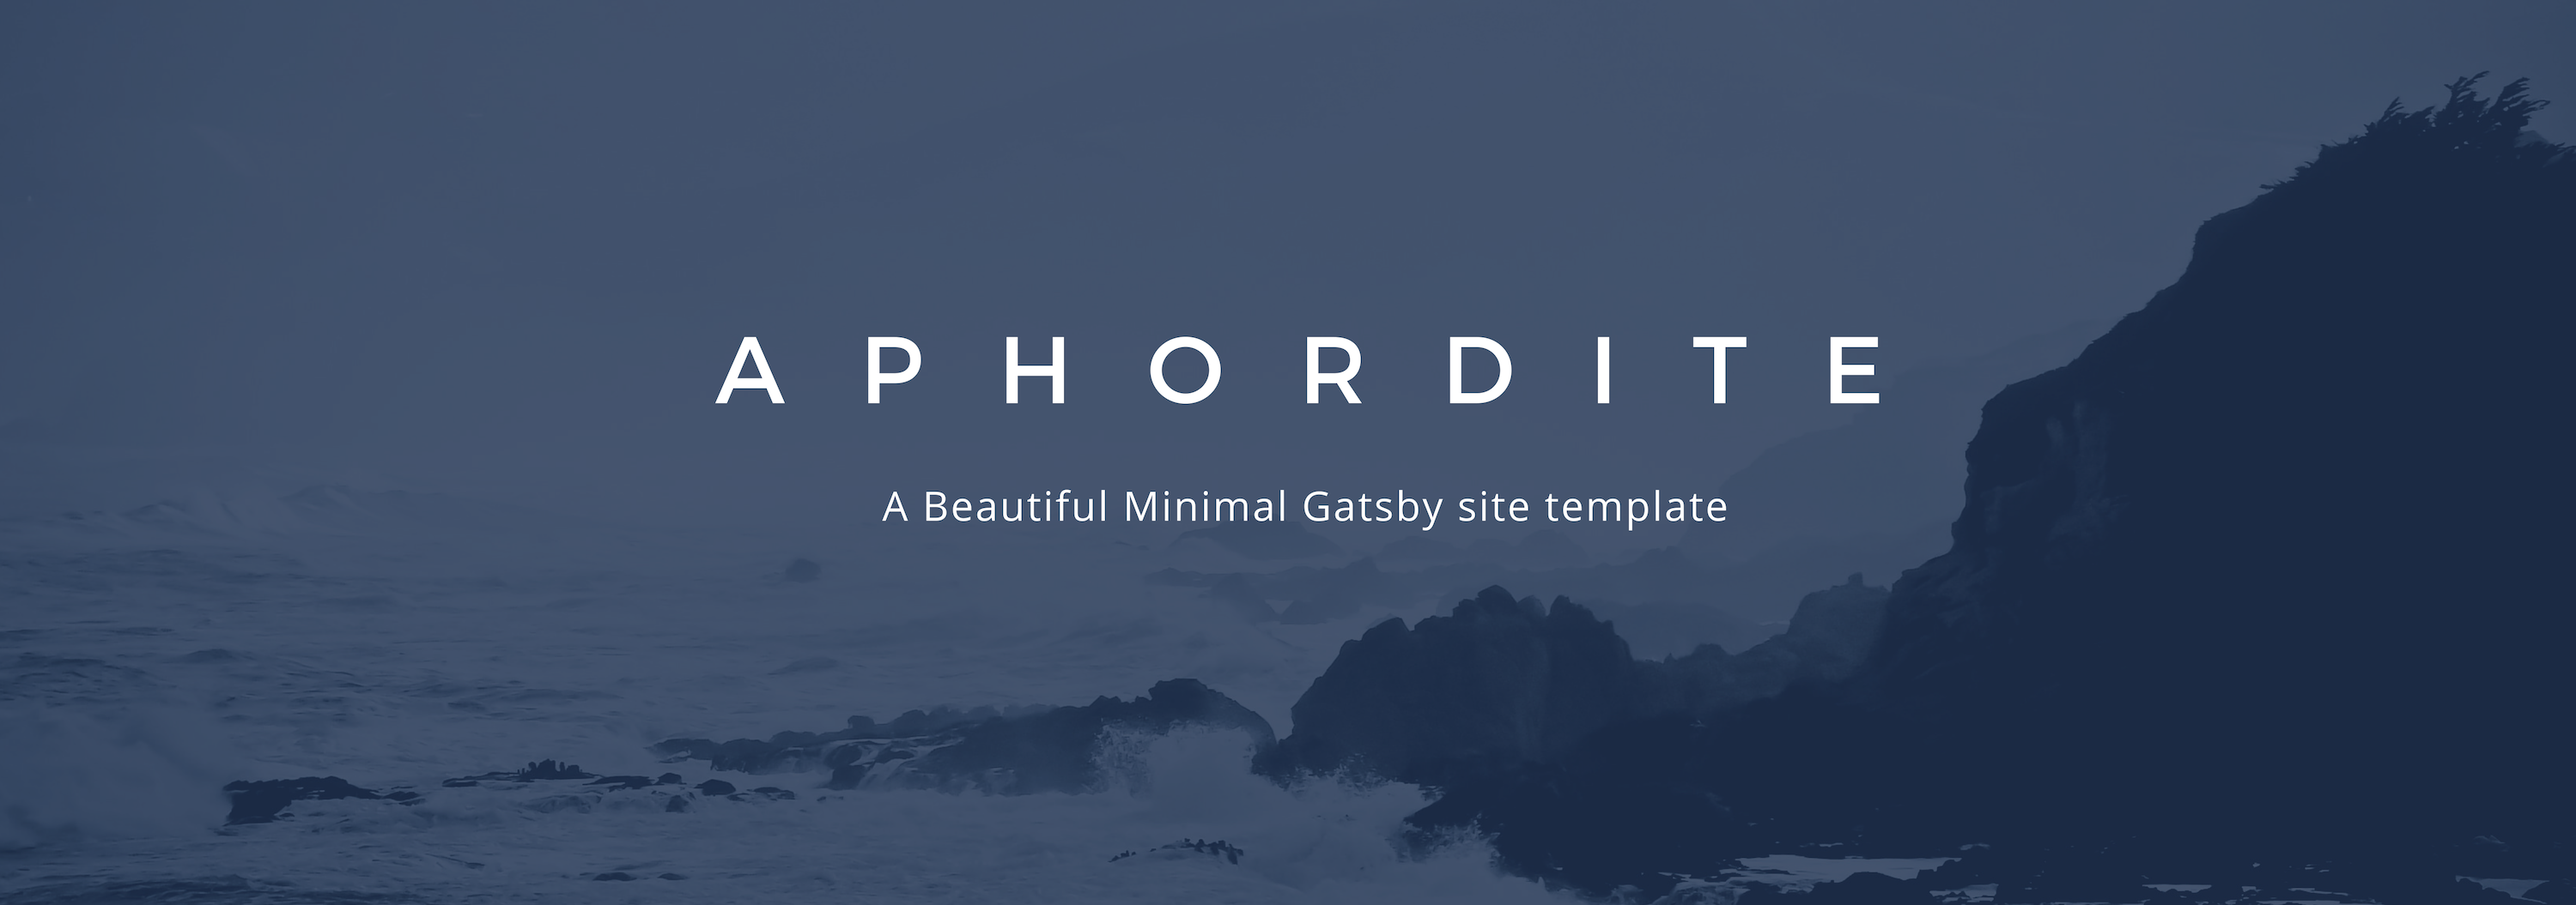
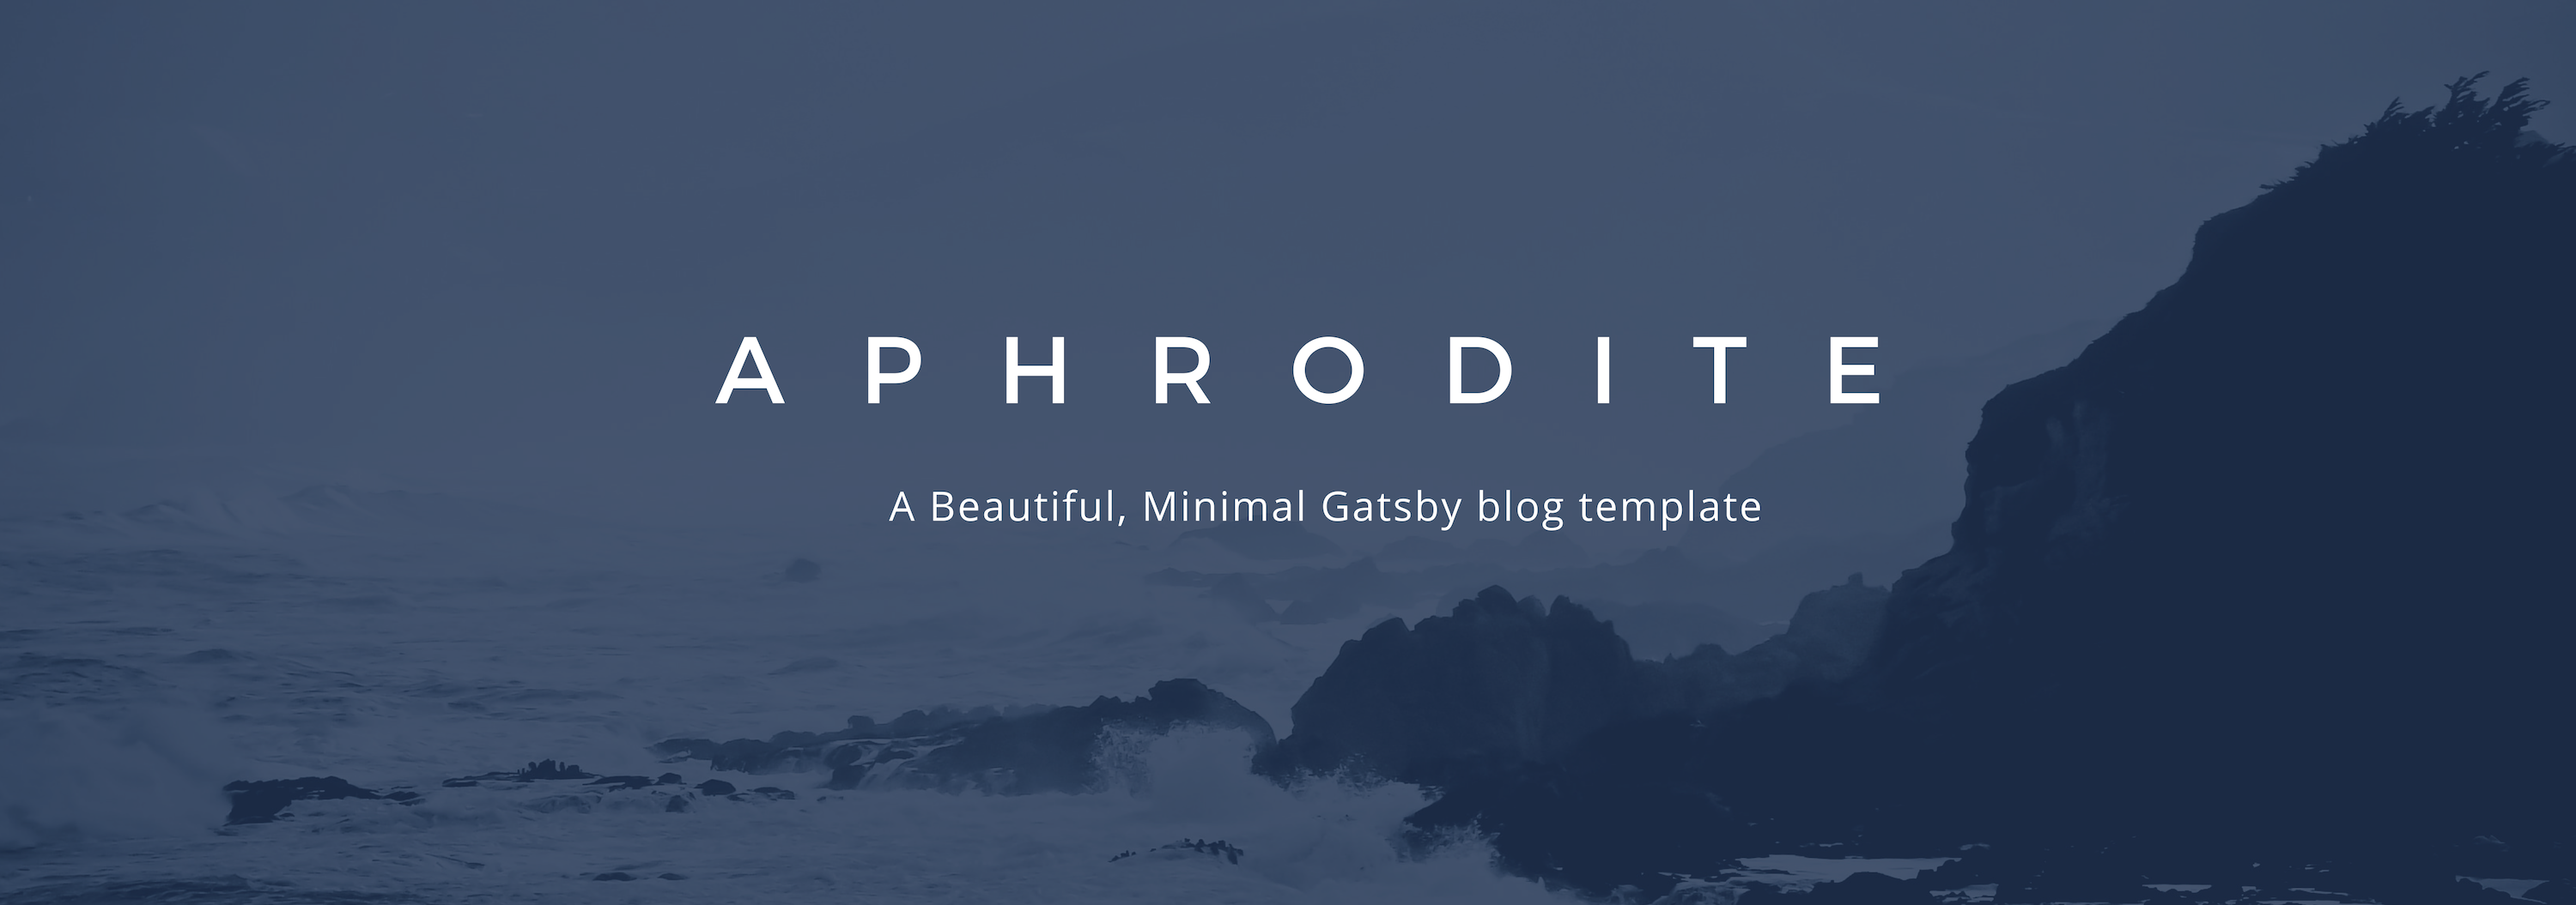
Fix typos and images

Changed region(s): [[0.341, 0.546, 0.682, 0.5763], [0.434, 0.364, 0.527, 0.455]]

diff --git a/src/components/AuthorProfile/index.jsx b/src/components/AuthorProfile/index.jsx
@@ -1,0 +1,12 @@
+import React from 'react';
+import { StaticQuery, graphql } from 'gatsby'
+
+const AuthorProfile = ({}) => {
+
+    return (
+        <StaticQuery
+            query={
+                graphql``
+            }/>
+    );
+}

diff --git a/README.md b/README.md
@@ -5,7 +5,7 @@
   </a>
 </p>
 <h1 align="center">
-  Aphordite - Gatsby site template
+  Aphrodite - Gatsby site template
 </h1>
 
 Build your personal publication with Aphrodite without worrying much about SEO and Readability. Aphrodite is bootstrapped with Readability and User Experience in Mind. Go Ahead and fork this template for your contents and needs.
